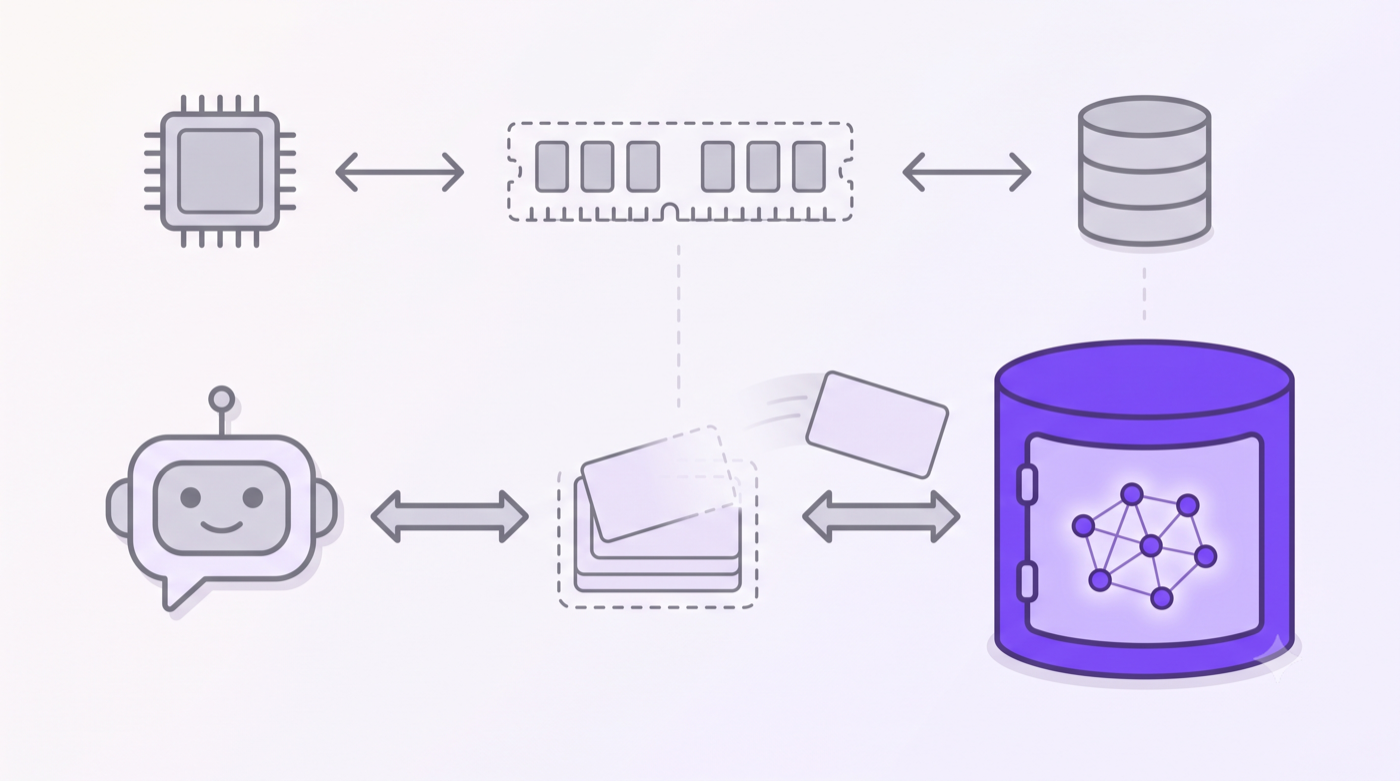
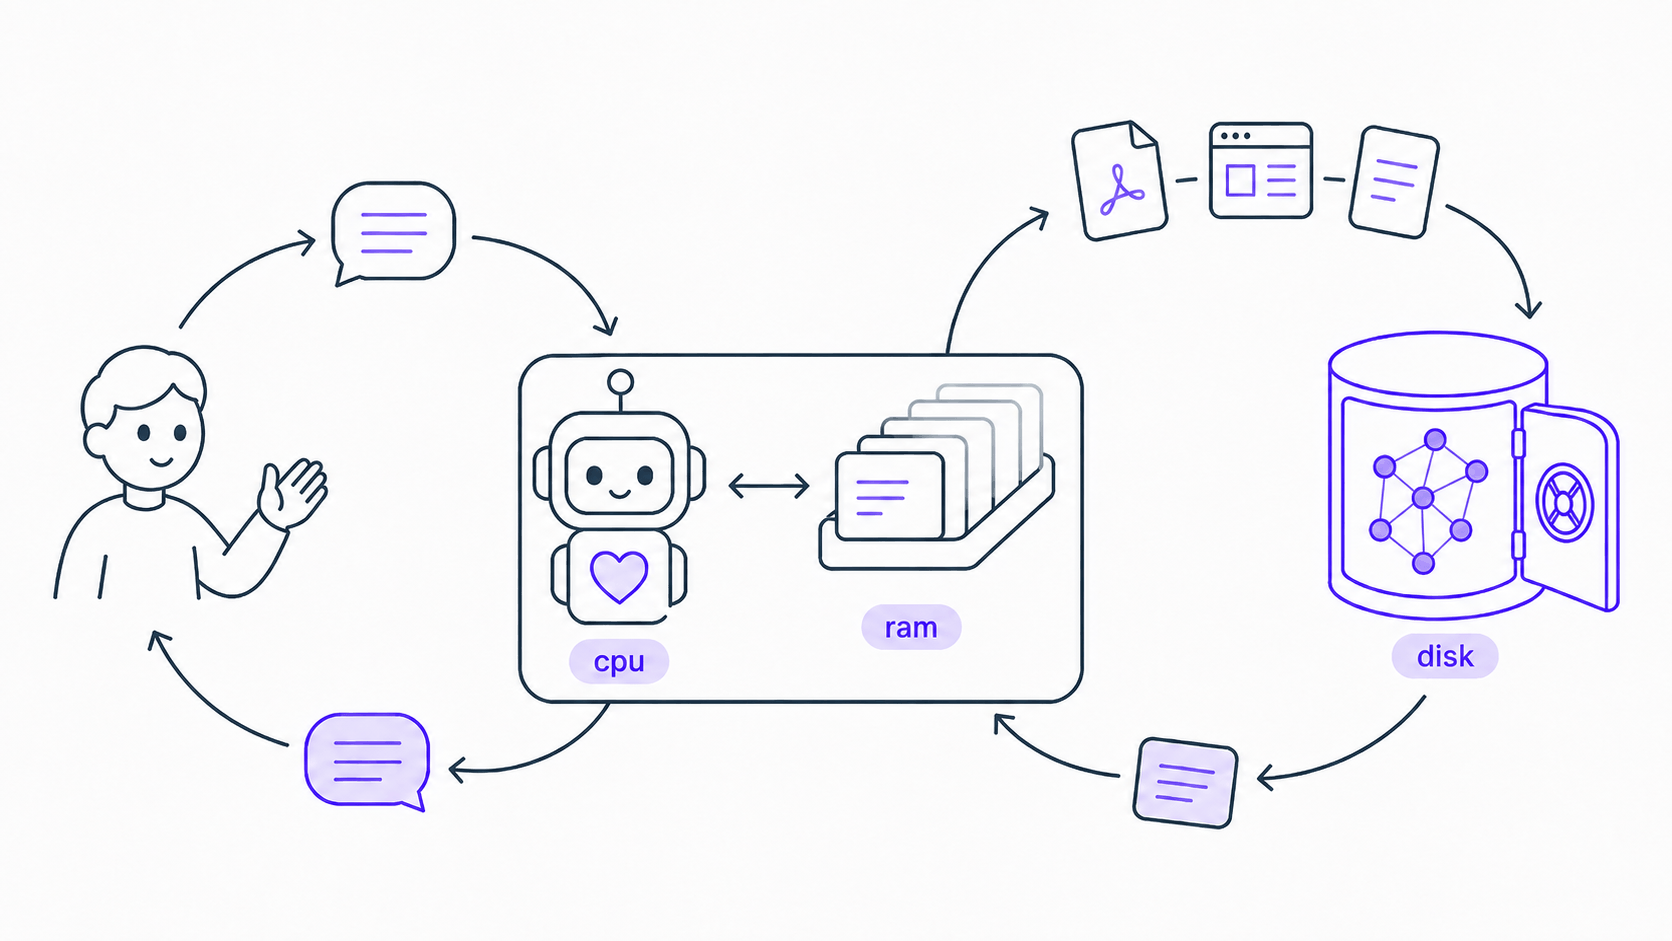
v0.8.0: gather v2 — search mode (topic → shortlist → capture), --focus/--expand/--rounds + doc sweep; new hero image

Changed region(s): [[0.0307, 0.1229, 0.9829, 0.8912], [0.0921, 0.1229, 0.3379, 0.338]]

diff --git a/.claude/skills/gather/SKILL.md b/.claude/skills/gather/SKILL.md
@@ -1,90 +1,157 @@
 ---
 name: gather
 description: >
-  Deep Raw-layer capture: collect a whole topic's web sources at once. Given a seed URL (or a few),
-  fetch it, find the relevant links it cites (papers/repos/docs), and — after showing you a preview you
-  approve — capture those too into raw/, with images localised, ready for /ingest. Use when the user runs
-  /gather, or says "gather sources on X", "deep-capture these links", "grab this article AND the repos/
-  papers it cites". Safe by default (conservative caps + preview + a hard ceiling) for non-experts;
-  fully overridable (depth/pages/include/exclude/--yes) for experts. Opt-in; does nothing until invoked.
-  It only CAPTURES into raw/ — the normal /ingest skill then compiles. Read-only except for adding new
-  raw files (never edits existing raw content).
+  Web capture into raw/, two modes, one pipeline. SEED mode: given URL(s), fetch them and (optionally)
+  the relevant links they cite. SEARCH mode: given a topic and no URL, web-search it, triage the hits,
+  and present a dated shortlist for approval before anything is fetched — the vault's native
+  deep-research entry (topic → sources → wiki; the cited report then comes from ingest + query/output).
+  Use on /gather, "gather sources on <topic>", "search the web for X and save the sources",
+  "deep-capture these links", "grab this article AND the repos/papers it cites". Preview-and-approve
+  gates by default; conservative caps + a hard 100-page ceiling; expert flags (--search/--seed,
+  --expand, --focus, --rounds, --max-pages, --include/--exclude, --same-domain, --yes, --ingest).
+  Opt-in; does nothing until invoked. It only CAPTURES into raw/ — /ingest compiles. Writes only new
+  raw files, their asset images and its own log entry (never edits existing raw content).
 user-invocable: true
 ---
 
-# gather — deep Raw-layer capture (seed + the relevant links it cites)
+# gather — web capture into raw/ (seed mode + search mode)
 
 ## Goal
-Turn one seed link into a high-quality set of captured sources by following the links it cites, **without**
-fan-out blow-ups or off-topic noise. Output lands in `raw/`; `/ingest` then compiles it.
+Turn either a set of links (seed mode) or a bare topic (search mode) into a high-quality set of
+captured sources in `raw/`, without fan-out blow-ups, off-topic noise, or silent writes. `/ingest`
+then compiles. Capture is document-granular — whole pages, verbatim; salience is ingest's job.
 
-**Dual-mode — one command, two speeds:**
+## Modes & routing (deterministic — any agent, any model, same result)
+- ≥1 URL among the arguments → **seed mode**. Free text alongside = scope + focus.
+- No URL, a topic/question present → **search mode**. The text is the **brief**: goal, any
+  include/exclude criteria, recency expectations.
+- Explicit `--seed` / `--search "<brief>"` overrides inference. Neither URL nor topic — or `--seed`
+  with no URL — → **ask**. Out-of-range flag values are clamped to their bounds and the clamp is
+  reported at the gate.
+- Every run echoes its parsed **run-spec** (mode · seeds/brief · focus · expand · rounds · caps) at
+  the first gate, so a misroute dies at the preview, never at capture.
 
 | | Non-expert (defaults) | Expert (override) |
 |---|---|---|
-| Scope | depth 1 · ≤10 pages · content-links only | `--max-depth 2`, `--max-pages 50`, `--same-domain`, or natural language ("two hops, only papers") |
-| Confirmation | **always previews the plan + cost estimate and waits** | `--yes` skips the preview for trusted runs |
-| Link choice | the built-in heuristics (consistent) | `--include a,b` / `--exclude c,d`, or "also follow the blog links / skip GitHub" |
+| Scope | search: results only (expand 0) · seed: 1 citation hop · ≤10 pages | `--expand 2`, `--max-pages 50`, `--same-domain`, or natural language ("two hops, only papers") |
+| Confirmation | **always previews the plan + cost estimate and waits** | `--yes` skips previews for trusted runs |
+| Link choice | built-in heuristics (consistent) | `--include a,b` / `--exclude c,d` / `--focus "<topic>"` |
 | Ceiling | hard cap **100 pages — nobody can override** | same (protects the token budget) |
 
-## Triggers
-`/gather <url ...> [flags]` · "gather sources on <topic>" · "deep-capture these links" ·
-"ingest this and also grab the repos/papers it cites".
+## Flags
+`--search "<brief>"` · `--seed` · `--expand N` — citation hops beyond the fetched base (default:
+seed 1 · search 0; `--max-depth` accepted as a legacy alias) · `--focus "<topic>"` — semantic
+relevance filter (implied by the brief in search mode) · `--rounds N` — search-mode iterative
+deepening (default 1, max 3) · `--max-pages N` (default 10; hard ceiling 100) · `--same-domain` ·
+`--include a,b` / `--exclude c,d` (seed mode: URL substring patterns for the classifier · search
+mode: domain names for the search engine, with non-domain patterns applied as substring
+post-filters on the results) · `--yes` (skip Step-4 previews — the Discover gate always waits) ·
+`--ingest` (compile after capturing).
 
 ## Pipeline
-### 0 — Scope
-Parse the seed URL(s) + flags. Translate any natural-language intent into flags (e.g. *"go two hops, only
-papers"* → `--max-depth 2 --include arxiv,doi,/paper`). Unstated → use the safe defaults above.
+### 0 — Scope (both modes)
+Parse args + natural language into the run-spec; NL intent maps to flags (*"two hops, only papers"*
+→ `--expand 2 --include arxiv,doi,/paper`; *"only the parts about X"* → `--focus "X"`). Unstated →
+the safe defaults above.
 
-### 1 — Fetch the seed(s)
+### 1 — Discover (search mode only)
+1. Derive 3–6 query angles from the brief (distinct phrasings/aspects; recency terms where
+   freshness matters). Run WebSearch per query, with `--include`/`--exclude` mapped to
+   allowed/blocked domains. Pool ≤30 candidates.
+2. Triage on result metadata — no capture fetches at this stage. Dedupe by URL; classify provenance
+   (official docs / paper / repo / engineering blog / news / aggregator); date-check (≤6 WebFetch
+   spot-checks per round on unclear finalists — throwaway reads, never capture; unknown → mark "date
+   unverified"); score relevance against the brief. Drop junk (listicles, undated marketing,
+   off-topic) — every drop listed with its reason.
+3. Vault de-dup pre-check: grep shortlist URLs against `source_url`/`converted_from` in `raw/` and
+   `wiki/` — matches are shown as "already in vault", not proposed.
+4. Present the shortlist (≤12 — a menu, not a promise: approvals capture at most the `--max-pages`
+   budget): numbered — title · provenance class · date · one-line relevance · likely raw/ category
+   subfolder (informational; capture writes to the raw/ root, ingest sorts later) — headed by the
+   run-spec, with a cost estimate and everything dropped or deduped. **GATE — never skipped, even
+   with `--yes`**: discovered pages are unknowns and always get human curation. With `--expand 0`
+   (the search default) this approval IS the capture approval → approved rows go straight to
+   Step 5 (the approved pages themselves are the captures). With `--expand ≥ 1`, approved rows
+   enter Steps 2–4 as seeds AND are captured at Step 5.
+
+Guards: WebSearch unavailable → say so and ask for seed URLs — never substitute model memory. Zero
+hits → print the queries run (proof the probe ran) and offer reformulations. Results are US-region
+— note it when the topic suggests non-US sources (those may need direct URLs).
+
+### 2 — Fetch the seed(s)
 Capture each seed with the `ingest` Step-0 chain (`defuddle` for pages, `curl` for raw/`.md`,
-`markitdown` for binaries, **Jina Reader fallback** if those fail). Save the seed Markdown to a temp file.
+`markitdown` for binaries, **Jina Reader fallback** if those fail). Save the seed Markdown to a
+temp file for Step 3. Base pages (seeds, or search-mode approved results) are themselves captures:
+they are written to `raw/` at Step 5 and count against the page caps. Seed mode with `--expand 0`
+skips Steps 3–4 entirely — the given URLs are the whole capture set (batch-capture shorthand),
+previewed once with the cost estimate unless `--yes`.
 
-### 2 — Plan (the consistency engine — deterministic)
+### 3 — Plan (the consistency engine — deterministic)
 Run the classifier so every gather applies the SAME rules:
 ```bash
 python3 .claude/skills/gather/gather_links.py <seed.md> --seed-url "<url>" \
         --max-pages <N> [--same-domain] [--include a,b] [--exclude c,d] --json
 ```
-It returns `expand` (will fetch), `maybe` (ask) and `skip` (won't), with the page caps already applied. (Heuristics live in that
-script — expand docs/papers/repos/READMEs/benchmarks; skip nav/ads/login/social/logos.)
+It returns `expand` (will fetch), `maybe` (ask) and `skip` (won't), with the page caps already
+applied. (Heuristics live in that script — expand docs/papers/repos/READMEs/benchmarks; skip
+nav/ads/login/social/logos.) With `--focus`, a labelled semantic pass runs AFTER the classifier:
+each `expand`/`maybe` link is annotated for topical fit and demotions are proposed — both verdicts
+shown side by side in the preview. The script's output is never altered; nothing is silently
+dropped.
 
-### 3 — Preview & confirm (DEFAULT — skip only with `--yes`)
-Show the plan **and an estimated cost** ("will fetch N pages ≈ ~M k tokens to capture + compile; ask
-about K; skipping J"). Invite the user to **approve / prune / adjust caps / reclassify** the `maybe`s.
-This is both the footgun guard and the curation step — the human stays in control.
+### 4 — Preview & confirm (DEFAULT — skip only with `--yes`)
+Show the plan **and an estimated cost** ("will fetch N pages ≈ ~M k tokens to capture + compile;
+ask about K; skipping J" — assume ≈4k tokens per captured page and ≈2× that to compile, and state
+the assumption), headed by the run-spec. Invite the user to **approve / prune / adjust caps /
+reclassify** the `maybe`s and any focus demotions; promotions count against `--max-pages` — the
+run never exceeds it. Under `--yes` this preview is skipped with the conservative disposition:
+`maybe` links skipped, focus demotions applied. This is both the footgun guard and the curation
+step — the human stays in control.
 
-### 4 — Capture (into raw/)
-Fetch each APPROVED link with the same chain (→ Jina fallback). For each, write `raw/<slug>.md` with
-provenance frontmatter (`converted_from` / `converted_by` / `converted_on`), download body images to
-`assets/` with relative paths, and **sanitize** as in `ingest` Step 0. Respect `--max-pages` and the hard
-**100-page ceiling**. For `--max-depth > 1`, repeat steps 2–4 on the newly captured pages, **re-previewing
-each hop** (unless `--yes`). Never edit existing raw files — only add new ones.
+### 5 — Capture (into raw/)
+Fetch each APPROVED link with the same chain (→ Jina fallback). For each, write `raw/<slug>.md`
+with provenance frontmatter (`converted_from` / `converted_by` / `converted_on`, plus `source_url`
+so ingest's de-dup keeps working), download body images to `assets/` with relative paths, and
+**sanitize** as in `ingest` Step 0. Respect `--max-pages` and the hard **100-page ceiling**
+(cumulative across rounds and hops: each repeat invocation of the classifier is passed the
+REMAINING budget — `--max-pages` minus pages already captured this run). For `--expand > 1`,
+repeat Steps 3–5 on the newly captured pages, **re-previewing each hop** (unless `--yes`). Never
+edit existing raw files — only add new ones.
 
-### 5 — Hand off to ingest
-The captures now sit in the `raw/` inbox. Offer to run `/ingest` to compile them (or chain automatically
-with `--ingest`). Report what was captured, skipped, and the running page/cost total.
+### 6 — Rounds (search mode, `--rounds > 1`)
+From the round's captured material, list the brief's open gaps (subtopics still uncovered —
+derived from what was already read; no re-reads). No gaps → stop early and say so. Otherwise
+derive next-round queries from the gaps and re-enter Step 1; every round gets the same gate and
+shares the cumulative caps.
 
-## Flags
-`--max-depth N` (default 1) · `--max-pages N` (default 10; hard ceiling 100) · `--same-domain` ·
-`--include a,b` · `--exclude c,d` · `--yes` (skip previews) · `--ingest` (compile after capturing).
+### 7 — Hand off to ingest
+The captures now sit in the `raw/` inbox. Offer to run `/ingest` to compile them (or chain
+automatically with `--ingest`). Report what was captured, skipped, and the running page/cost
+total. For a synthesised report on the topic, follow with `/query` (filed into the wiki) or
+`/output` (a deliverable) — discovery + capture here, reporting there.
 
 ## Hard constraints
-- **Preview-and-confirm by default.** Only `--yes` skips it. Always show the page count + cost estimate.
-- **Caps are real**: never exceed `--max-pages`, and never exceed the non-overridable **100-page ceiling**.
-- **Raw immutability**: only *add* new captures to `raw/` (the §3.1 "converted `.md`" provision); never
-  edit or delete existing raw bytes.
-- **Capture, don't summarise**: use `defuddle`/`curl`/`markitdown`/Jina (verbatim/extraction). Never fill
-  gaps with invented content; mark anything uncertain `unverified`.
-- **Privacy/safety**: skip anything behind a login or obviously private; the Jina fallback routes URLs
-  through a third party, so don't use it for sensitive links.
-- **British/UK English**; translate non-English captures. Don't compile here — that's `/ingest`'s job.
+- **Preview-and-confirm by default.** Only `--yes` skips it. Always show the page count + cost.
+- **Caps are real**: never exceed `--max-pages` or the non-overridable **100-page ceiling**; and
+  **no silent caps** — every cap hit, drop, demotion and dedup is reported at a gate.
+- **Raw immutability**: only *add* new captures to `raw/` (CLAUDE.md §3.1's "converted `.md`" provision);
+  never edit or delete existing raw bytes.
+- **Capture, don't summarise**: use `defuddle`/`curl`/`markitdown`/Jina (verbatim/extraction).
+  WebFetch is triage-only (throwaway spot-checks) — never a capture path. Never fill gaps with
+  invented content; mark anything uncertain `unverified`.
+- **Privacy/safety**: skip anything behind a login or obviously private; the Jina fallback routes
+  URLs through a third party, so don't use it for sensitive links.
+- **British/UK English**; translate non-English captures, noting the translation in the provenance
+  frontmatter. Don't compile here — that's `/ingest`'s job.
 
 ## Logging
-After a completed capture run, append one `gather` entry to `wiki/log.md` via shell (`cat >>`): seed
-URL(s), pages captured, where they landed in `raw/`, and that the batch awaits `/ingest`. A preview-only
-or aborted run (nothing captured) is not logged.
+After a completed capture run, append one `gather` entry to `wiki/log.md` via shell (`cat >>`):
+mode, seed URL(s) or the brief + the queries run (and rounds), pages captured, where they landed
+in `raw/`, and that the batch awaits `/ingest`. A preview-only or aborted run (nothing captured)
+is not logged.
 
 ## Relationship to the other skills
-- **`gather`** → builds the *Raw layer* (deep multi-link capture into `raw/`).
+- **`gather`** → builds the *Raw layer* (search-driven or seed-driven multi-link capture into `raw/`).
 - **`ingest`** → *compiles* `raw/` into linked `wiki/` pages (run it after gather).
+- **`query` / `output`** → the reporting half of deep research: cited answers/deliverables from
+  the compiled pages. gather + ingest + query/output together replace external deep-research tools.

diff --git a/CLAUDE.md b/CLAUDE.md
@@ -311,7 +311,7 @@ A query answered **inline** (no file written) and a **read-only** lint scan are 
 | Trigger | Skill | What it does |
 |---------|-------|--------------|
 | `/ingest` or "add this to my wiki" | **ingest** | Compile inbox files → wiki pages, update index+log, then sort the raw file into its category subfolder. |
-| `/gather <url…>` or "deep-capture these links" | **gather** | *(opt-in)* Deep Raw-layer capture — fetch a seed + the relevant links it cites (preview-and-approve; capped) into `raw/`, then hand to `ingest`. |
+| `/gather <url…>` · `/gather --search "<topic>"` or "gather sources on X" | **gather** | *(opt-in)* Web capture into `raw/` — seed mode (given URLs ± the links they cite) or search mode (topic → web search → approved shortlist; `--rounds` deepening); preview-and-approve, capped; then hand to `ingest`. |
 | `/query <question>` or "what do my notes say about X" | **query** | Read `index.md` → relevant pages → synthesise a cited answer; offer to file high-value answers into `syntheses/`. |
 | `/lint` or "health-check the wiki" | **lint** | Cheap, frequent scan: dead links, orphans, unindexed pages, unresolved conflicts; report; fix only after confirmation. (No confidence/online checks — those are `deep-lint`'s.) |
 | `/deep-lint` or "monthly deep maintenance" | **deep-lint** | Heavy periodic pass (~monthly, or when flags accumulate): reconciles query-time `flagged:` freshness flags, audits confidence/staleness on changed + flagged + sampled cold pages (never a full-vault LLM re-read), capped online-freshness probes, deep structural checks, the IDEAS.md Monitor review (its sole standing delegation), qmd refresh; updates the vault, confirming large changes. |
@@ -344,7 +344,7 @@ the material justifies it.
 Each skill's own description surfaces automatically — below is just *when to reach for which*:
 - **Capture / convert**: `defuddle` for a web page → Markdown (WebFetch only for throwaway lookups — **never to capture a source**, §3.1); **`markitdown`** to convert any non-`.md` source (PDF/PPTX/DOCX/XLSX/image/audio/HTML/CSV/EPUB/URL) before ingest (§3.1).
 - **Vault I/O**: prefer **`obsidian-cli`** (cheaper/safer than raw file ops); `obsidian-markdown` for Obsidian-flavoured syntax; `obsidian-bases` (`.base` views) · `json-canvas` (`.canvas` maps).
-- **Custom (this vault)**: `ingest` · `gather` (opt-in deep capture) · `query` · `lint` · `deep-lint` (heavy ~monthly maintenance) · `attic` (explicit-only cold-storage archive/restore) · `qmd-search` (opt-in semantic search; dormant until qmd is installed) · `output` · `export-template` (publish/update the public framework repo) — see §6.
+- **Custom (this vault)**: `ingest` · `gather` (opt-in web capture: seed or search mode) · `query` · `lint` · `deep-lint` (heavy ~monthly maintenance) · `attic` (explicit-only cold-storage archive/restore) · `qmd-search` (opt-in semantic search; dormant until qmd is installed) · `output` · `export-template` (publish/update the public framework repo) — see §6.
 - **Version control / backup**: the **Obsidian Git** plugin backs up the *whole vault* (knowledge included) to a *private* remote (history + multi-device sync); `export-template` publishes the *framework only* to the *public* repo. Two repos, never crossed (§11).
 
 ---

diff --git a/MANUAL.md b/MANUAL.md
@@ -71,9 +71,10 @@ Type these to the agent, in the Claudian panel or Claude Code.
 - `/ingest --agent-convert <file>` — the agent itself transcribes a PDF or image to Markdown instead of the automatic converter, for precision on complex layouts (heavier on tokens, so opt-in). If an automatic conversion comes back empty or garbled, the agent offers this route with a cost estimate before anything else.
 - Capture is automatic by type: web pages via `defuddle`, Markdown and text via `curl`, audio/video/binary via MarkItDown, with **Jina Reader** as a fallback for awkward or JavaScript-heavy pages.
 
-**`/gather` — deep-capture a whole topic**
-- `/gather <url> [url2 …]` — fetches a starting page **and the relevant sources it cites** (papers, repos, docs) into `raw/`, then hands off to `/ingest`. It **previews what it will fetch and asks first**, and caps how much it pulls.
-- Conservative by default (one hop, up to ten pages). Override with `--max-depth 2`, `--max-pages 50`, `--same-domain`, `--include a,b` / `--exclude c,d`, `--yes` (skip the preview), or `--ingest` (compile afterwards) — or simply describe it: *"gather these, two hops, only the papers."*
+**`/gather` — capture from the web: links, or a whole topic**
+- `/gather <url> [url2 …]` — fetches the page(s) **and the relevant sources they cite** (papers, repos, docs) into `raw/`, then hands off to `/ingest`. It **previews what it will fetch and asks first**, and caps how much it pulls.
+- `/gather --search "<topic>"` — no links needed: the agent web-searches the topic, triages the hits, and shows you a **dated shortlist to approve** before anything is fetched. Add `--rounds 2` to let it search again for whatever the first haul left uncovered. This is the vault's own deep-research route — after `/ingest`, ask `/query` or `/output` for the cited report.
+- Conservative by default (search mode captures just the approved results; link mode follows one citation hop; up to ten pages). Override with `--expand 2` (citation hops), `--focus "X"` (only material relevant to X), `--max-pages 50`, `--same-domain`, `--include a,b` / `--exclude c,d`, `--yes` (skip the preview), or `--ingest` (compile afterwards) — or simply describe it: *"gather these, two hops, only the papers."*
 
 **`/lint` — health-check the wiki**
 - Finds broken links, orphans, unindexed pages, and conflicts. A normal `/ingest` self-cleans, so run this after hand-editing, after syncing between machines, or for a periodic review.

diff --git a/README.md b/README.md
@@ -4,7 +4,7 @@
 
 > *Tony Stark never had to reintroduce himself to Jarvis. With today's AI you do it every day: close the chat, and everything you explained is gone.*
 
-![Memory-analogy diagram: a computer's CPU, RAM and disk on top; below, an AI agent, its fading context-window cards, and a violet vault holding a knowledge graph, with one note card flying into the vault](assets/hero.png)
+![Two loops around an AI agent labelled cpu with its context tray labelled ram: on the left, the user sends a question and receives an answer; on the right, the agent files sources into a violet vault labelled disk that holds a knowledge graph, and draws a note back into its tray](assets/hero.png)
 
 The problem is memory, not intelligence. An agent does all its thinking in a context window that empties the moment a conversation ends. Think of the model as a CPU and the context window as its RAM, fast but volatile; with no disk underneath, everything you teach it is quietly thrown away. This project adds that disk, with a layered wiki as the bridge. You drop raw sources into your Obsidian vault, the agent compiles them into linked notes it looks after entirely on its own, and whenever a conversation needs something, the right notes flow back up into working memory. Everything stays plain Markdown, yours to open, read and correct. Feed it for a month and the assistant stops being a stranger; a year in, nothing else will know your work the way it does.
 
@@ -79,7 +79,7 @@ Sources live in `raw/`; compiled notes live in `wiki/`, organised by type, with 
 | Skill | Purpose |
 |-------|---------|
 | `ingest` | Compile sources from `raw/` into linked notes. |
-| `gather` | Capture a topic (a page and the sources it cites) into `raw/`. |
+| `gather` | Capture a topic into `raw/` — web-search it, or start from a page and the sources it cites. |
 | `query` | Answer a question from the wiki, with citations. |
 | `output` | Produce a grounded, cited document in `output/`. |
 | `lint` | Check the wiki for broken links, orphans, and gaps (cheap, frequent). |
